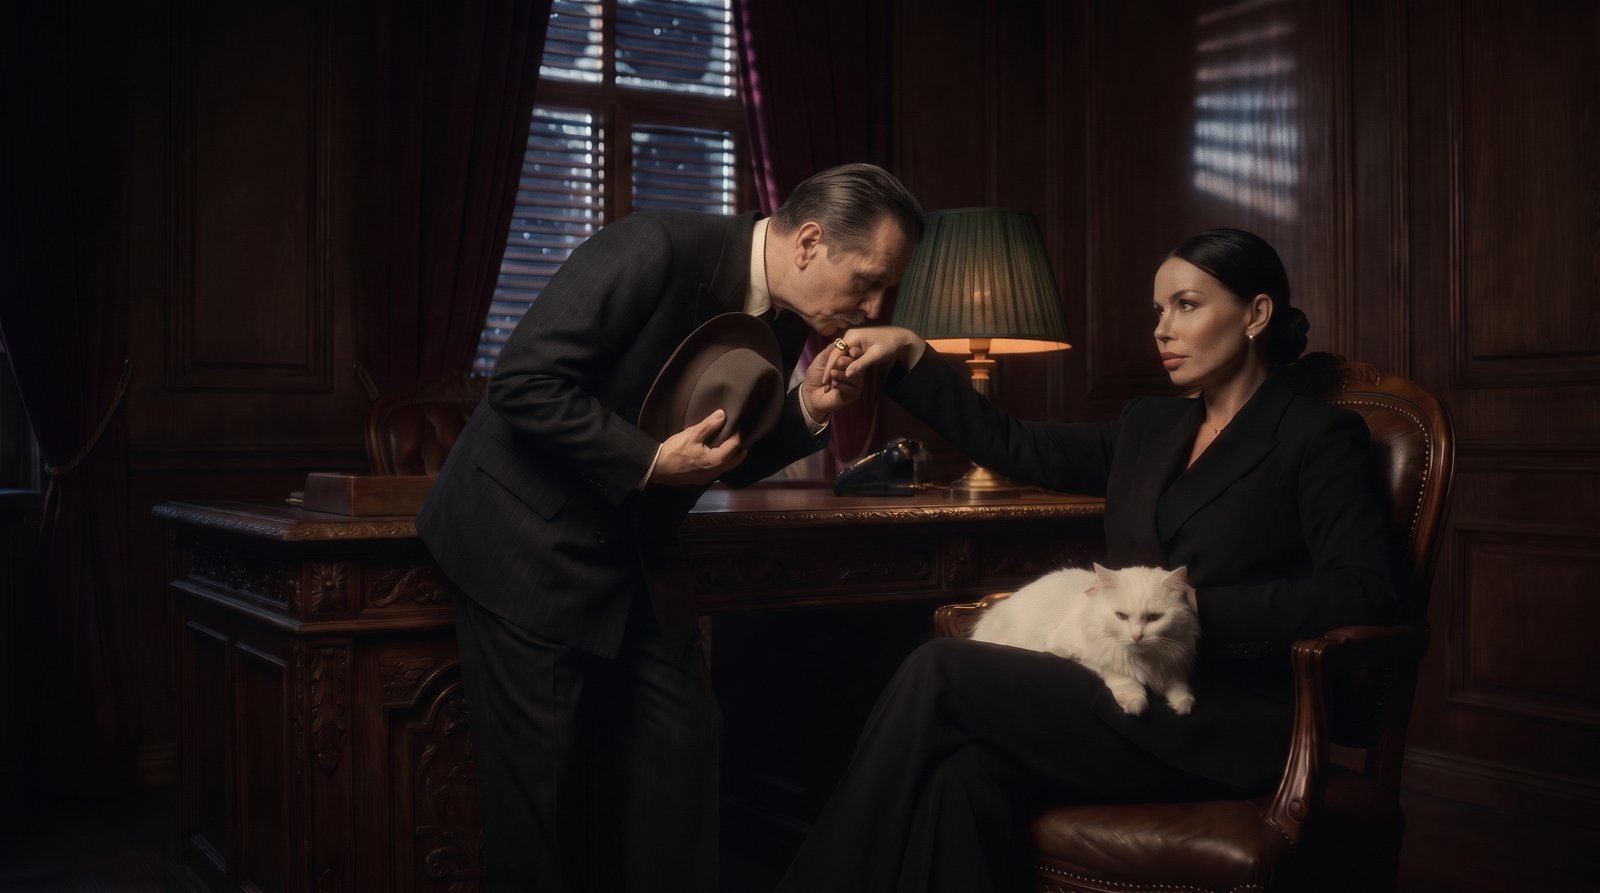
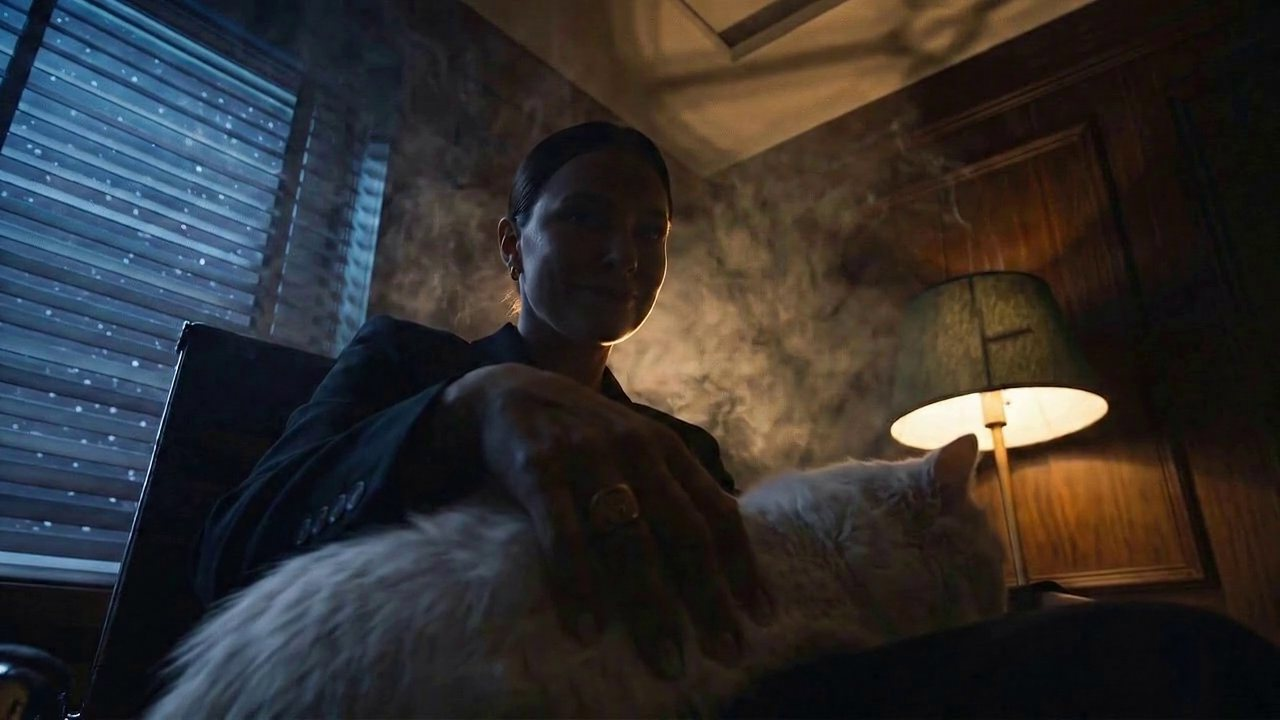
Крёстная: раскадровка перехода

diff --git a/cheloveki-krestnaya-v8/finalnyj.html b/cheloveki-krestnaya-v8/finalnyj.html
@@ -1,0 +1,4 @@
+<!doctype html><html lang="ru"><head><meta charset="utf-8"><meta name="viewport" content="width=device-width,initial-scale=1"><title>Крёстная мать: переход</title>
+<style>body{margin:0;background:#0b0907;color:#eee;font:18px/1.5 system-ui;padding:16px}main{max-width:1000px;margin:auto}img{width:100%;border-radius:8px;display:block}figure{margin:0 0 26px}figcaption{margin-top:6px;font-size:19px}span{color:#d9a441}h2{color:#d9a441;margin-top:40px}</style></head><body><main>
+<h1>Переход к части 2: раскадровка</h1><figure><img src="k-final.jpg"><figcaption>1. «…я приду за тобой». Врывается тема любви, кадр замирает <span>3 с</span></figcaption></figure><figure><img src="k-f-titry.jpg"><figcaption>2. Музыка играет дальше, кадр темнеет, идут старые титры <span>4 с</span></figcaption></figure><figure><img src="k-f-ruka.jpg"><figcaption>3. Из-за края кадра появляется современная рука с маникюром и хватает старый кадр, как фотографию. Музыка обрывается <span>2 с</span></figcaption></figure><figure><img src="k-f-sdvig.jpg"><figcaption>4. Настя сдвигает старый кадр в сторону. За ним светлый современный офис, Настя в бежевом костюме: «Так, стоп-стоп-стоп…» <span>3 с</span></figcaption></figure><figure><img src="k-f-ona.jpg"><figcaption>5. Настя в кадре одна, в объектив: «…сейчас всё по-другому». Дальше часть 2 <span>3 с</span></figcaption></figure>
+<h2>Другой вариант шагов 3–4</h2><figure><img src="k-f-tv.jpg"><figcaption>Старый фильм идёт по старому телевизору в современном офисе. Настя отодвигает телевизор рукой и улыбается в объектив.</figcaption></figure></main></body></html>
